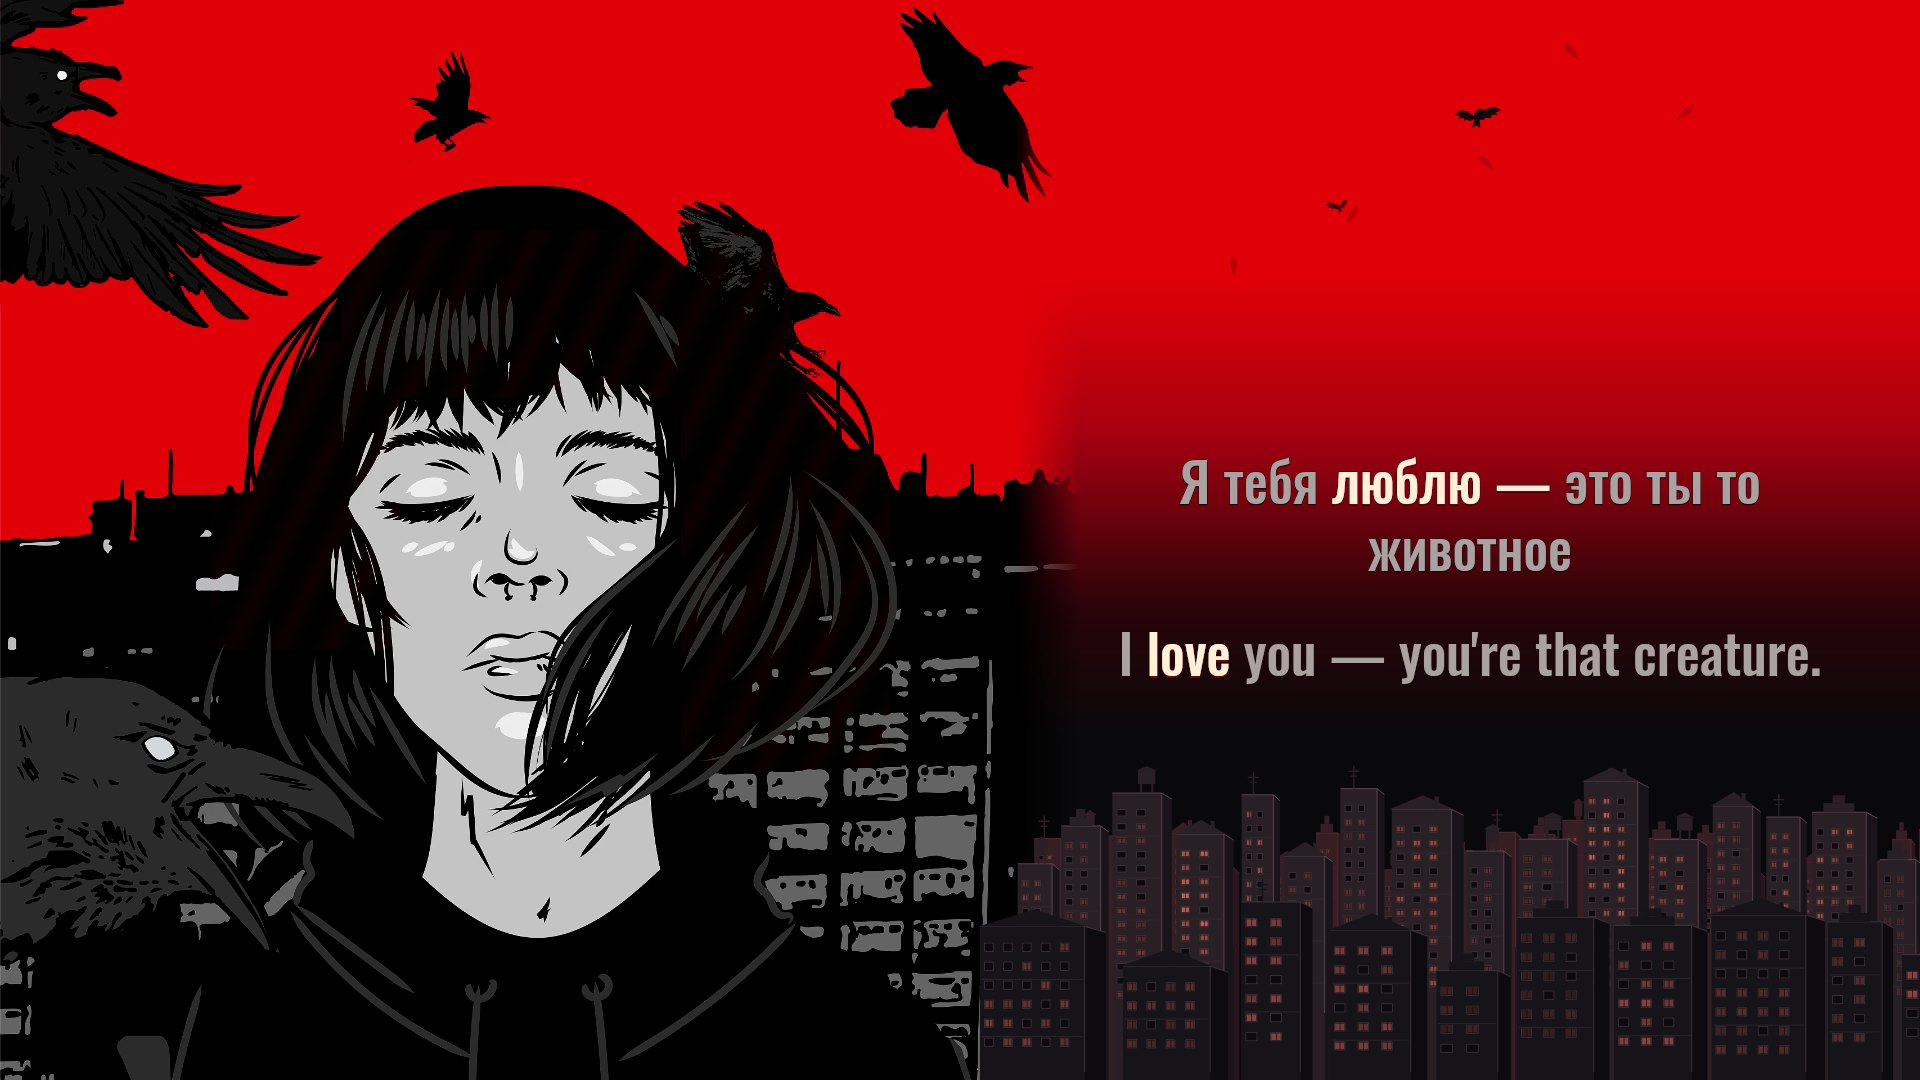
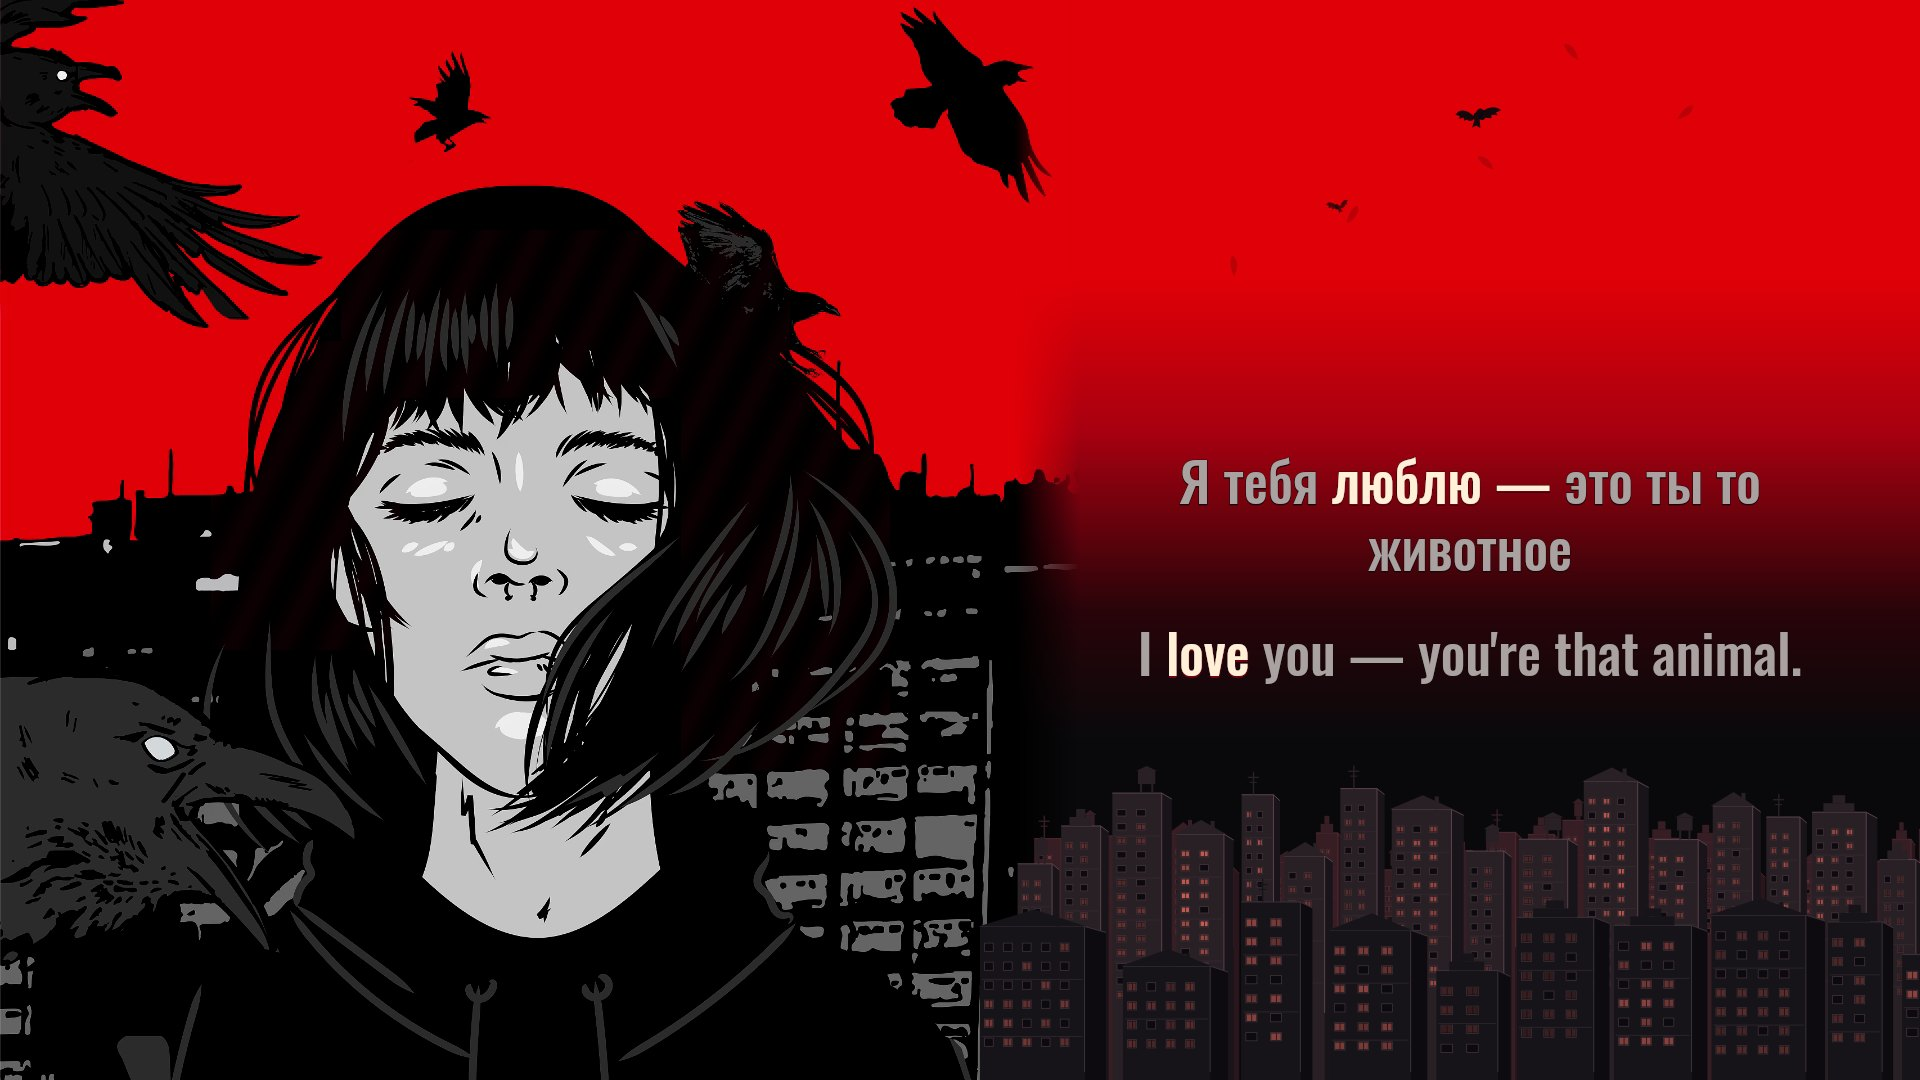
Translate животное as animal in both Друг verses

Changed region(s): [[0.5625, 0.5806, 0.9375, 0.6417]]

diff --git a/projects/drug-lyric-film/scripts/build-timeline.ts b/projects/drug-lyric-film/scripts/build-timeline.ts
@@ -8,7 +8,7 @@ const templates:Template[]=[
  {key:'b',ru:'Что поселилась внутри головы',en:'That settled inside my head',map:[[0],[1],[2],[3],[3]],punctuation:{},reason:{3:'My is the contextual head owner in the preceding first-person clause; it shares the head event, without a fabricated possessive time.'}},
  {key:'c',ru:'Будешь теперь мне вместо глицина',en:"Now you'll be my substitute for glycine",map:[[1],[0],[0],[2],[3],[3],[4]],punctuation:{},reason:{1:'The inflected future verb expands into the complete English you will be.',4:'Substitute for is a complete lexical equivalent of вместо.'}},
  {key:'d',ru:'Не сопротивляйся мы будем дружить',en:"Don't resist we will be friends",map:[[0],[1],[2],[3],[3],[4]],punctuation:{1:','},reason:{0:'Negative auxiliary follows the independently sung negation.',3:'Future auxiliary is distinct from the explicit subject we.'}},
- {key:'e',ru:'Я тебя люблю это ты то животное',en:"I love you you're that creature",map:[[0],[2],[1],[3,4],[5],[6]],punctuation:{2:' —'},reason:{3:'The Russian deictic identification это ты is a copular construction in natural English. You are follows the union of its two independently measured events, releasing over any gap.'}},
+ {key:'e',ru:'Я тебя люблю это ты то животное',en:"I love you you're that animal",map:[[0],[2],[1],[3,4],[5],[6]],punctuation:{2:' —'},reason:{3:'The Russian deictic identification это ты is a copular construction in natural English. You are follows the union of its two independently measured events, releasing over any gap.'}},
  {key:'f',ru:'Тёплое мягкое хочется трогать',en:'Warm soft I want to touch',map:[[0],[1],[2],[2],[2],[3]],punctuation:{0:',',1:' —'},reason:{2:'The impersonal desire expands into I want to; no unstated touch object is supplied.'}},
  {key:'g',ru:'Хочется чувствовать что-то особое',en:'I want to feel something special',map:[[0],[0],[0],[1],[2],[3]],punctuation:{},reason:{0:'Complete desire construction receives one source event; feel and something special retain their separate events.'}},
  {key:'h',ru:'Что-то красивее хрипов больного',en:"Something prettier than a sick person's wheezing",map:[[0],[1],[1],[3],[3],[3],[2]],punctuation:{},reason:{1:'Comparative morphology supplies than; it shares the comparative.',3:'A sick person is a singular nominalized adjective; the complete possessive span shares больного.',6:'Natural English word order places the individually timed wheezing after its possessor.'}},

diff --git a/projects/drug-lyric-film/PRODUCTION-NOTES.md b/projects/drug-lyric-film/PRODUCTION-NOTES.md
@@ -30,6 +30,7 @@ Russian words retain separate source events. Natural English can move focus back
 | хочется | I want to | Complete desire construction; touch/feel remain separate |
 | это + ты | you're | Union of independently measured identification events; release over any gap |
 | красивее | prettier than | Comparative morphology includes `than` |
+| животное | animal | Preserve the concrete animal meaning in both verses; a noun correction retains the existing source event |
 | больного | a sick person's | Complete singular possessive, distinct from хрипов / wheezing |
 | detached больного | someone sick | Singular person; not an invented plural noun or new verb |
 
@@ -55,3 +56,5 @@ A small fixed empty-sky patch (x=485, y=85, 30×30 in the square) supplies the d
 Five contracts cover complete correspondence, exact inclusive/exclusive state, grammar expansions, filtered coverage, reading handoff and negative production gates. Native proof checks every cue in both formats and writes explicitly labelled stills. Actual browser checks separately confirm the loaded identity, original picture, finer word clock, playback, seeks, format/speed changes, animation comparison and recovery.
 
 A representative browser still is preview evidence. It is not an encoded final frame or an acoustic review. Future production must use the same frozen scene/timeline/reference/font/features, record current listening scope and render authorization, then verify complete decode, source/audio identity, all PTS, no source gaps and encoded glyph states. Only then prepare the Desktop upload kit and update final-frame README evidence.
+
+The translation-only correction from `creature` to `animal` regenerated the timeline identity and both affected native proofs. [Current correction evidence](evidence/animal-translation-check.json) records actual paused животное / animal focus at 26.200 s in wide and 86.200 s in portrait. The earlier broader [browser transport observations](evidence/browser-preview-checks.json) retain their original identity; they are not relabelled as checks of the changed timeline.

diff --git a/docs/readme-screenshots.md b/docs/readme-screenshots.md
@@ -4,7 +4,7 @@ Updated 10 October 2026. Featured songs in the main README have a representative
 
 | Song | Representative image | Time | Edition / provenance |
 | --- | --- | --- | --- |
-| Друг | [Original raven illustration, paired love focus and detailed layered city](../projects/drug-lyric-film/evidence/browser-landscape-24.300.png) | 00:24.300 | Actual 1920×1080 browser canvas from complete v2 review preview; source frame 729; listening review and production rendering pending |
+| Друг | [Original raven illustration, paired animal focus and detailed layered city](../projects/drug-lyric-film/evidence/browser-landscape-26.200.png) | 00:26.200 | Actual 1920×1080 browser canvas from complete v2 review preview; source frame 786; listening review and production rendering pending |
 | Труп невесты | [Complete bridal illustration, equal bilingual focus and measured strings](../projects/trup-nevesty-lyric-film/evidence/final-youtube-95.200.jpg) | 01:35.200 | Exact decoded frame 5,712 from the verified v1 1920×1080, 60 fps film; original frame 2,380; scoped owner-approved preview with standardized listening scope separately unattested |
 | призрак | [Original bass-performance shot and centered independent vocal blocks](../projects/prizrak-lyric-film/evidence/final-landscape-overlap-214.300.jpg) | 03:34.300 | Exact decoded frame 12858 from the verified centered v2 native 1920×1080, 60 fps film; original frame 5357 |
 | По камушку | [Complete stone ring, equal себя / myself focus and material response](../projects/po-kamushku-lyric-film/evidence/final-square-58.250.jpg) | 00:58.250 | Exact decoded frame 3495 from the verified native 1080×1080, 60 fps film; original frame 1456 |

diff --git a/README.md b/README.md
@@ -14,9 +14,9 @@ Music films with synchronized lyrics, meaning-linked translations, and audio-rea
 
 **REDCHINAWAVE · Russian / English · complete 16:9 and 9:16 review preview**
 
-![Друг actual browser preview with original raven illustration, equal bilingual focus and layered music-lit architecture](projects/drug-lyric-film/evidence/browser-landscape-24.300.png)
+![Друг actual browser preview with original raven illustration, equal bilingual focus and layered music-lit architecture](projects/drug-lyric-film/evidence/browser-landscape-26.200.png)
 
-*Actual preview canvas at 00:24.300. Original illustration and soundtrack: [REDCHINAWAVE's official audio](https://www.youtube.com/watch?v=SXAReusgEC0). [Preview identity and still provenance](projects/drug-lyric-film/evidence/browser-preview-checks.json). This is preproduction presentation evidence.*
+*Actual preview canvas at 00:26.200, with животное / animal focus. Original illustration and soundtrack: [REDCHINAWAVE's official audio](https://www.youtube.com/watch?v=SXAReusgEC0). [Preview identity and still provenance](projects/drug-lyric-film/evidence/animal-translation-check.json). This is preproduction presentation evidence.*
 
 The original woman and ravens remain intact. A fixed three-depth city continues the illustration, with perspective sides, varied rooftops and occupied windows carrying measured musical light. Added ravens travel on separate curved paths and bank through turns; typography stays crisp and stationary. Both formats preserve the complete square, with equal Russian and English emphasis.
 

diff --git a/projects/drug-lyric-film/README.md b/projects/drug-lyric-film/README.md
@@ -2,9 +2,9 @@
 
 **Complete preview · Russian / English · 16:9 and 9:16 · v2**
 
-![Actual browser preview with source illustration, crisp paired focus and a layered city](evidence/browser-landscape-24.300.png)
+![Actual browser preview with source illustration, crisp paired focus and a layered city](evidence/browser-landscape-26.200.png)
 
-*Browser canvas at 24.300 s from the complete source-video preview. Original music and illustration: [REDCHINAWAVE's official audio](https://www.youtube.com/watch?v=SXAReusgEC0). This is preview presentation evidence, not a final encoded movie or a listening attestation.*
+*Browser canvas at 26.200 s from the complete source-video preview, with животное / animal focus. [Correction and capture provenance](evidence/animal-translation-check.json). Original music and illustration: [REDCHINAWAVE's official audio](https://www.youtube.com/watch?v=SXAReusgEC0). This is preview presentation evidence, not a final encoded movie or a listening attestation.*
 
 The original woman, ravens and city remain the center of the film. The source's red sky continues into an illustrated reading area. Three depths of fixed buildings use distinct rooftops, perspective sides, window frames and masonry. Measured music changes occupied-window light rather than moving the skyline. Three small ravens follow separate curved routes with turns, banks and varied glide/wingbeat phases. Crisp, stationary Russian and English text shares the same focus strength.
 
